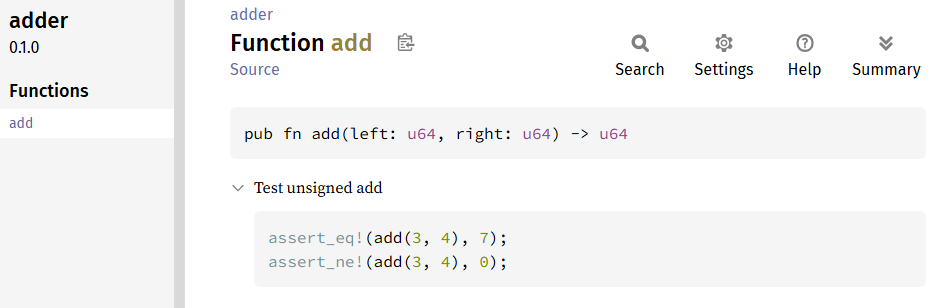
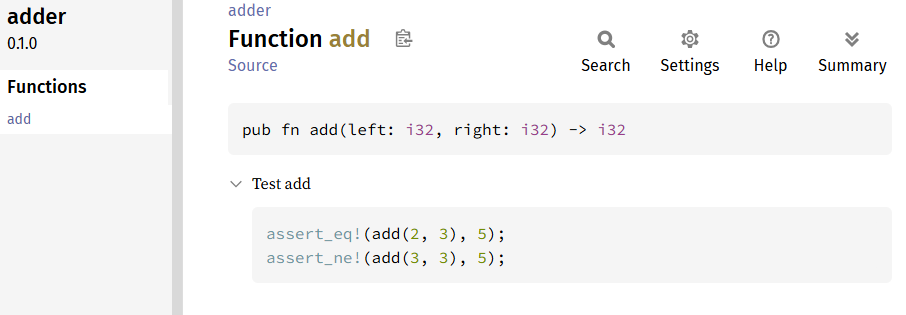
More fixes per review comments

diff --git a/courses/rust_essentials/190_testing/06-documentation_tests.rst b/courses/rust_essentials/190_testing/06-documentation_tests.rst
@@ -16,11 +16,11 @@ What Is a "doctest"?
 
     /// Adds two numbers together.
     /// ```
-    /// use my_crate::add;
+    /// use adder::add;
     /// assert_eq!(add(2, 3), 5);
     /// ```
-    pub fn add(a: i32, b: i32) -> i32 {
-        a + b
+    pub fn add(left: i32, right: i32) -> i32 {
+        left + right
     }
 
 * Rust code blocks in :rust:`///` or :rust:`//!` comments are doctests by default
@@ -36,11 +36,12 @@ Why Use "doctest"?
 
 * **Crate Type Restriction**
 
-  * Doctests run **only on library crates**
+  * Doctests generally run only on library crates
+
+    * :command:`rustdoc --test` has more flexibility than :command:`cargo test --doc`
 
 * **Isolation**
 
-  * Each code block compiles into its own standalone binary crate
   * Uses the library as an external dependency
 
 * **Attributes**
@@ -65,7 +66,7 @@ Why Use "doctest"?
 .. code:: rust
   :number-lines: 1
 
-  /// Test unsigned add
+  /// Test add
   ///
   /// ```
   /// # use adder::add;
@@ -73,7 +74,7 @@ Why Use "doctest"?
   /// assert_ne!(add(2, 6), 7);
   /// ```
 
-* :rust:`///` indicates a document comment
+* :rust:`///` indicates documentation comments
 
   * Code blocks in document comments become doctests
 

diff --git a/courses/rust_essentials/190_testing/02-simple_unit_test.rst b/courses/rust_essentials/190_testing/02-simple_unit_test.rst
@@ -17,24 +17,27 @@ Creating a Library With Tests
 
 :command:`cargo new adder --lib`
 
-.. code:: rust
-  :font-size: footnotesize
-  :number-lines: 1
+* Creates :filename:`adder` folder containing entire package
 
-  pub fn add(left: u64, right: u64) -> u64 {
-      left + right
-  }
+  * Including template source file :filename:`src/lib.rs`
 
-  #[cfg(test)]
-  mod tests {
-      use super::*;
+  .. code:: rust
+    :font-size: tiny
 
-      #[test]
-      fn it_works() {
-          let result = add(2, 2);
-          assert_eq!(result, 4);
-      }
-  }
+    pub fn add(left: u64, right: u64) -> u64 {
+        left + right
+    }
+
+    #[cfg(test)]
+    mod tests {
+        use super::*;
+
+        #[test]
+        fn it_works() {
+            let result = add(2, 2);
+            assert_eq!(result, 4);
+        }
+    }
 
 -----------------------------------
 Creating Tests for a Binary Crate

diff --git a/courses/rust_essentials/190_testing/03-enhancing_tests.rst b/courses/rust_essentials/190_testing/03-enhancing_tests.rst
@@ -150,7 +150,17 @@ Expecting the Right Panic
 
 * What happens to our test if :rust:`find_index` doesn't work correctly?
 
-  * For example, it returns a 0 on failure rather than panic
+  * Replace
+
+    .. code:: rust
+
+      panic!("value not found");
+
+  * With
+
+    .. code:: rust
+
+      0 // not found
 
 * Test will pass (because it expects a panic)
 

diff --git a/courses/rust_essentials/190_testing/04-test_execution.rst b/courses/rust_essentials/190_testing/04-test_execution.rst
@@ -55,6 +55,10 @@ Some Example Code
       }
   }
 
+--------------------
+Some Example Tests
+--------------------
+
 * Some empty (for now) tests
 
   .. code:: Rust
